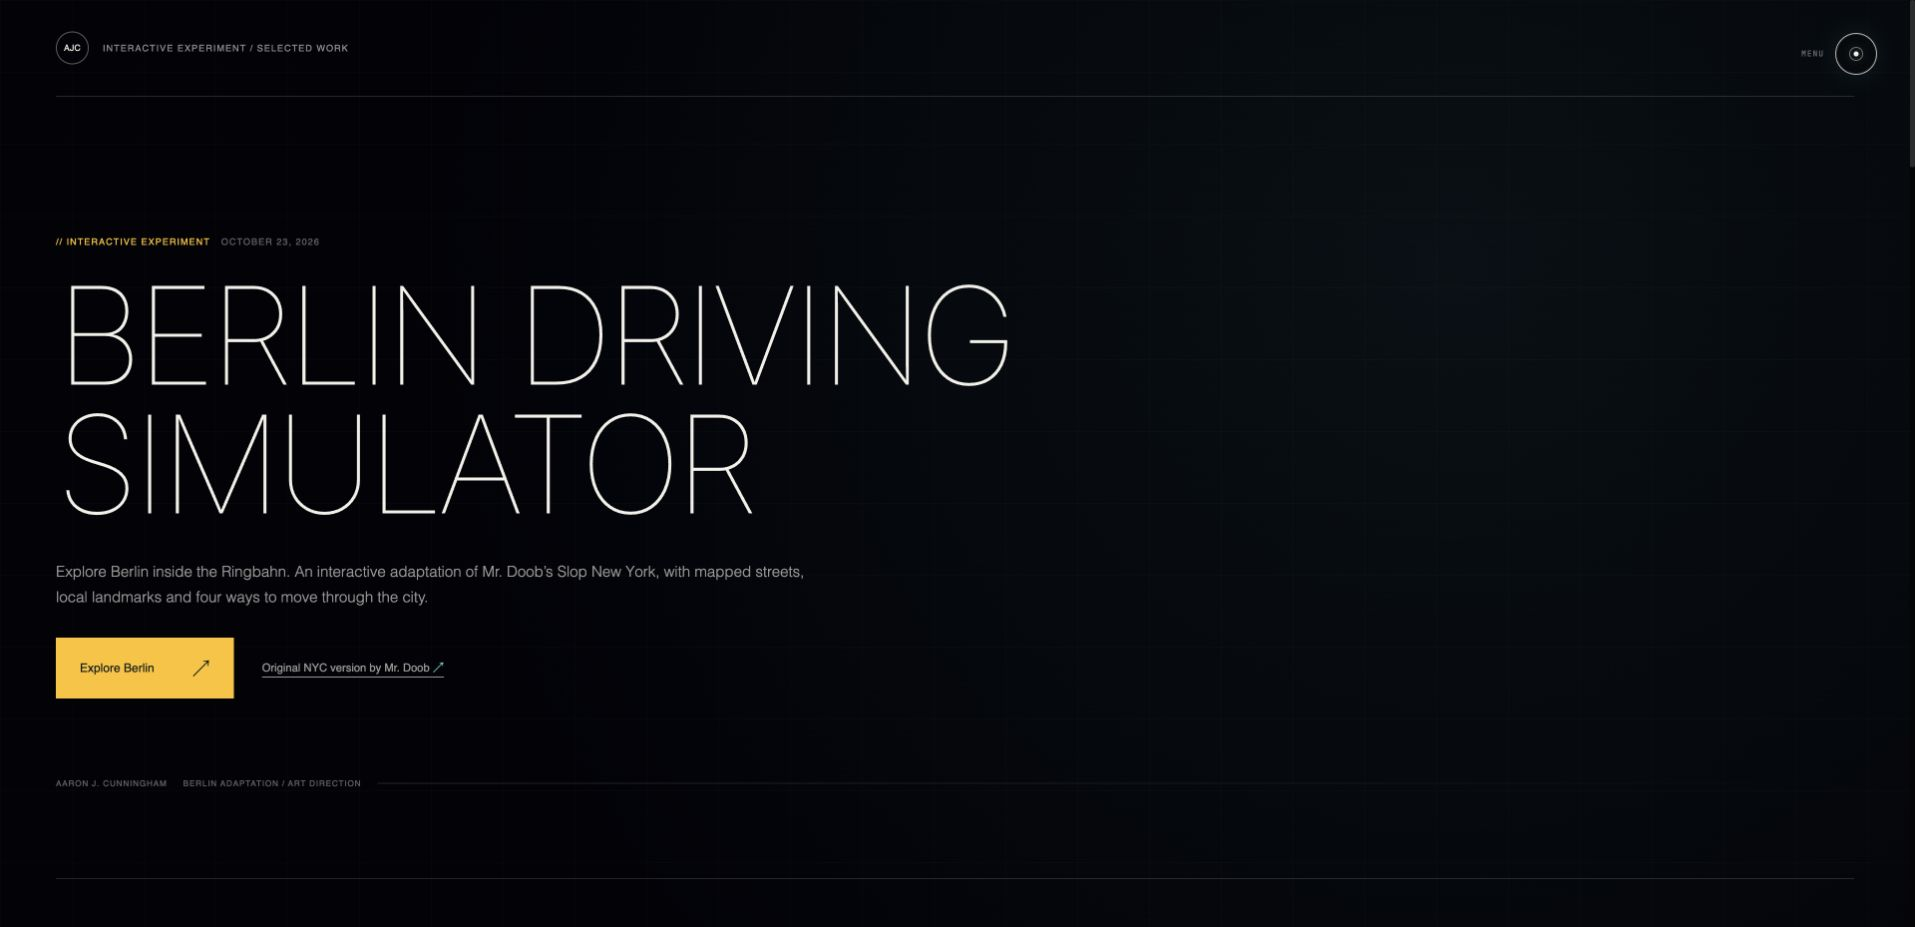
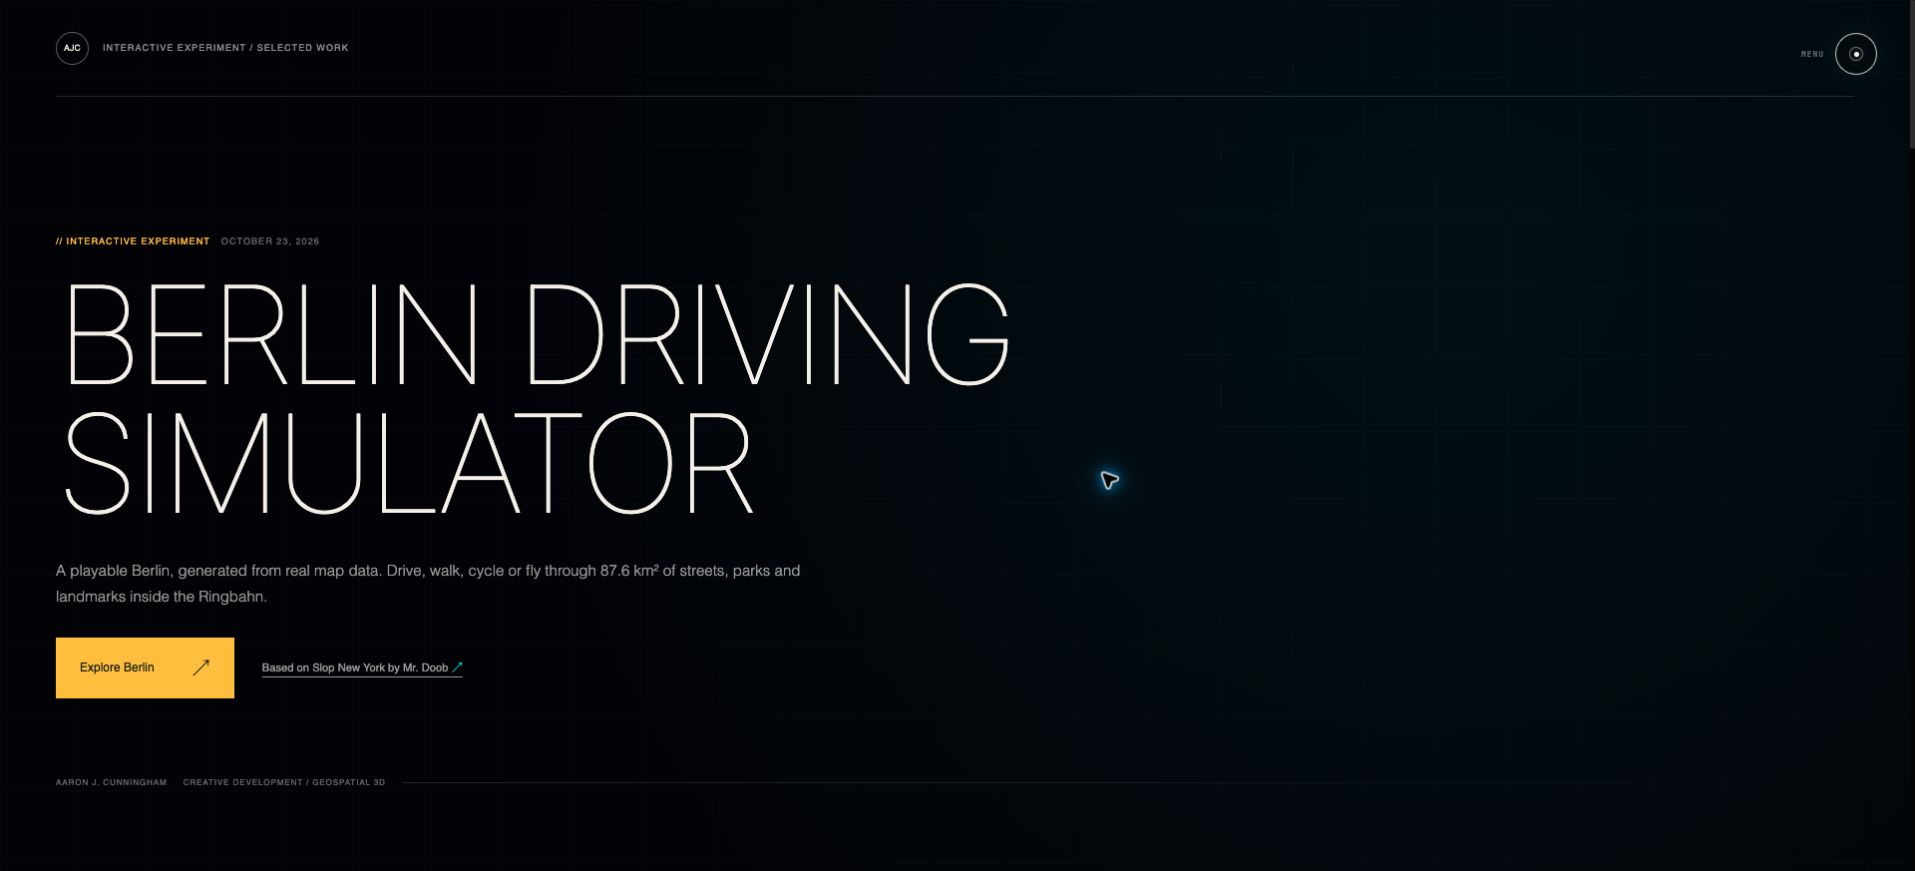
rewritten

diff --git a/src/content/berlin-driving-simulator.ts b/src/content/berlin-driving-simulator.ts
@@ -10,15 +10,15 @@ export const berlinDrivingProject: Project = {
   _id: 'local-berlin-driving-simulator',
   title: 'Berlin Driving Simulator',
   slug: 'berlin-driving-simulator',
-  excerpt: 'Explore Berlin inside the Ringbahn. An interactive adaptation of Mr. Doob’s Slop New York, with mapped streets, local landmarks and four ways to move through the city.',
+  excerpt: 'A playable Berlin, generated from real map data. Drive, walk, cycle or fly through 87.6 km² of streets, parks and landmarks inside the Ringbahn.',
   publishedAt: '2026-10-23T12:00:00Z',
   sortOrder: 0,
   experiencePath: '/play/berlin',
   experienceLabel: 'Explore Berlin',
   standaloneExperience: true,
-  roleLabel: 'BERLIN ADAPTATION / ART DIRECTION',
+  roleLabel: 'CREATIVE DEVELOPMENT / GEOSPATIAL 3D',
   attribution: {
-    label: 'Original NYC version by Mr. Doob',
+    label: 'Based on Slop New York by Mr. Doob',
     url: 'https://mrdoob.github.io/slop-newyork/',
     sourceTitle: 'Slop New York',
     creator: 'Mr. Doob',
@@ -35,31 +35,30 @@ export const berlinDrivingProject: Project = {
   ],
   links: [
     {_key: 'play', label: 'Explore Berlin', url: '/play/berlin'},
-    {_key: 'original', label: 'Original NYC version by Mr. Doob', url: 'https://mrdoob.github.io/slop-newyork/'},
     {_key: 'source', label: 'Original project source', url: 'https://github.com/mrdoob/slop-newyork'},
     {_key: 'map-credit', label: '© OpenStreetMap contributors', url: 'https://www.openstreetmap.org/copyright'},
     {_key: 'data', label: 'Berlin map data (.json.gz)', url: '/experiments/berlin/data/berlin.json.gz'},
   ],
   seo: {
     title: 'Berlin Driving Simulator — Explore the Ringbahn',
-    description: 'Drive, walk, cycle or fly through Berlin. An AI-assisted Berlin adaptation by Aaron J. Cunningham of Mr. Doob’s Slop New York, built on Three.js and WebGPU.',
+    description: 'Explore a procedural Berlin built from OpenStreetMap data. Real streets, 14 custom landmarks and 87.6 km² inside the Ringbahn, brought to life with Three.js and WebGPU.',
   },
   body: [
-    block('idea-title', 'A city I know. A different way to explore it.', 'h2'),
-    block('idea', 'I wanted to take the feeling of a freely explorable procedural city and bring it to Berlin. The result covers the area inside the Ringbahn, from Wedding and Prenzlauer Berg to Neukölln, Schöneberg and Charlottenburg, while retaining the earlier surrounding coverage.'),
-    block('experience', 'Take a car through the streets, walk up to a landmark, cycle along the river or rise above the city in a helicopter. Change the time of day, search the street map, or jump to one of 25 destinations. The map closes after a teleport so you can keep exploring.'),
-    block('credit-title', 'Built on Mr. Doob’s Slop New York.', 'h2'),
-    block('credit', 'Mr. Doob created the original simulation and its underlying graphics, movement, traffic, audio and camera systems. This project is a Berlin adaptation of that work. It retains the original Three.js r187dev WebGPU foundation and credits the NYC version in the app itself.'),
-    block('role-title', 'My contribution: the Berlin adaptation.', 'h2'),
-    block('role', 'I directed the geographic scope, neighbourhood priorities, visual references and interaction refinements. Development was AI-assisted, including the data conversion, Berlin-specific implementation and validation. The work centres on adapting an existing engine to a recognisable local setting.'),
-    block('geography', 'OpenStreetMap streets, building footprints, parks, water and railways replace the New York geography. The expansion follows the actual Ringbahn loop, preserves road connectivity, and adds destinations across the newly covered neighbourhoods. Tempelhofer Feld keeps its former runway surfaces.'),
-    block('landmarks', 'Berlin-specific landmarks give the city its identity. Berghain received a dedicated exterior study: its power-station proportions, tall industrial windows, stained plaster, graffiti, fencing and overgrown grounds were refined against photographs. Buildings elsewhere combine mapped footprints and available heights with procedural facade detail.'),
-    block('technical-title', 'The original engine, a new city.', 'h2'),
-    block('technical', 'The simulation runs in plain JavaScript with Three.js, WebGPU and TSL shaders. It remains a standalone browser experience, preserving its pinned renderer and controls. The portfolio loads only the project page and screenshots until you choose Explore Berlin.'),
-    block('visit-title', 'Before you explore.', 'h2'),
-    block('visit', 'For the best experience, use a desktop or laptop with a current WebGPU-capable browser. The first visit downloads the city and prepares its graphics, so allow a little time for loading. Performance varies by device; the scene is a procedural interpretation of Berlin, with simplified facades and terrain.'),
-    block('credits-title', 'Credits and sources.', 'h2'),
-    block('credits', 'Original simulation: Mr. Doob / Slop New York, under the MIT license. Berlin adaptation and art direction: Aaron J. Cunningham, developed with AI assistance. Geographic data: © OpenStreetMap contributors, available under ODbL. The original license and downloadable Berlin map data are included with the experience.'),
+    block('idea-title', 'Turn a map into somewhere you can go.', 'h2'),
+    block('idea', 'I wanted to make the Berlin I know explorable in the browser: drive towards the Brandenburg Gate, find Berghain on foot, or take a helicopter over Tempelhofer Feld. The Ringbahn gave the project a natural boundary, connecting distinct neighbourhoods into one continuous world.'),
+    block('scope', 'My work focused on translating Berlin’s geography into the simulation: a map-data pipeline, procedural buildings that follow real footprints, 14 custom landmarks, and routes between 25 destinations. The challenge was making a large geographic dataset feel like a place you recognise and want to explore.'),
+    block('data-title', 'Real geography becomes the structure.', 'h2'),
+    block('data', 'The city starts with OpenStreetMap. Streets, building footprints, courtyards, parks, water and railways were collected through the Overpass API and a regional Geofabrik extract. The dataset contains more than 67,000 building and building-part records, 105,000 road and path segments, and 90,000 individually mapped trees.'),
+    block('conversion', 'Those geographic coordinates are converted into the simulation’s 3D space. The expansion follows the actual S41/S42 rail loop, while preserving road junctions, one-way directions and open courtyards. That connectivity matters: a street has to work for driving and navigation as well as look right on a map.'),
+    block('procedural-title', 'A city built from rules.', 'h2'),
+    block('procedural', 'Building outlines become 3D geometry, using mapped heights and floor counts where available, with estimates filling the gaps. Procedural rules supply facade patterns, windows, roof details and vegetation. This makes it possible to populate whole neighbourhoods without individually modelling every building.'),
+    block('graphics', 'Three.js and WebGPU render the world, with TSL shaders generating surface detail and materials. The combination gives the city a real geographic structure and a consistent visual language as you move from street level to the skyline.'),
+    block('landmarks-title', 'The details that make it Berlin.', 'h2'),
+    block('landmarks', 'Landmarks needed more individual attention. Berghain became a detailed procedural model built from its mapped footprint and photographic references: tall industrial windows, weathered plaster, layered graffiti, fencing and an overgrown approach. Tempelhofer Feld keeps its former runway surfaces, and the Spree follows its mapped banks.'),
+    block('interaction', 'I also refined how the city feels to explore. Police sirens come from nearby moving cars at intervals. Searching the map and clicking a destination takes you there and closes the overlay. Berlin street names, local vehicle liveries and neighbourhood arrival points carry the setting through the smaller interactions.'),
+    block('performance-title', 'Making the scale manageable.', 'h2'),
+    block('performance', 'The expanded city groups buildings and street geometry into 750-metre cells so the renderer can skip distant areas. Repeated objects share geometry through instancing, and night lights are selected from nearby spatial cells. These choices let the simulation reuse its rendering systems across a much larger mapped world.'),
+    block('validation', 'Validation covered clear arrival points, camera sightlines and 61 directed route checks across the city. I used AI-assisted development throughout, directing the scope, visual references and interaction changes, then reviewing the results in the browser. The work brought together geospatial data, procedural graphics and close attention to a city’s character.'),
   ],
 }
 

diff --git a/pages/[slug]/index.tsx b/pages/[slug]/index.tsx
@@ -164,12 +164,6 @@ export default function DynamicProject({project, previousProject, nextProject}: 
                   <dt>{project.attribution ? 'BERLIN ADAPTATION' : 'AUTHOR'}</dt>
                   <dd>AARON J. CUNNINGHAM</dd>
                 </div>
-                {project.attribution && (
-                  <div>
-                    <dt>ORIGINAL SIMULATION</dt>
-                    <dd>{project.attribution.creator} / {project.attribution.sourceTitle}</dd>
-                  </div>
-                )}
                 {publishedDate && (
                   <div>
                     <dt>PUBLISHED</dt>

diff --git a/docs/berlin-driving-simulator.md b/docs/berlin-driving-simulator.md
@@ -4,8 +4,8 @@ Added locally on 23 October 2026. No deployment or Sanity publication was perfor
 
 ## Portfolio flow
 
-- `/work`: a playable project card, with a real screenshot and an excerpt explicitly crediting Mr. Doob.
-- `/berlin-driving-simulator`: a project article with an Explore Berlin action, prominent original NYC credit, screenshots, the Ringbahn scope, Aaron's direction/adaptation contribution, and AI-assisted development disclosure.
+- `/work`: a playable project card, with a real screenshot and an excerpt introducing the mapped city and ways to explore it.
+- `/berlin-driving-simulator`: a project article covering the OpenStreetMap pipeline, procedural generation, custom landmarks, interaction refinements and rendering at city scale. It includes an Explore Berlin action, a single linked Mr. Doob credit near the top, screenshots, Aaron's contribution and AI-assisted development disclosure.
 - `/play/berlin`: a full-document rewrite to the standalone simulator. Its back arrow returns to the article, and “Original NYC version by Mr. Doob” opens `https://mrdoob.github.io/slop-newyork/`.
 
 The simulation is not imported into Next.js or React. Its native import map preserves the original pinned Three.js r187dev, WebGPU/TSL modules, controls and rendering pipeline. The Work and article pages load images and page content; the large geographic module loads only after entering the experience.
